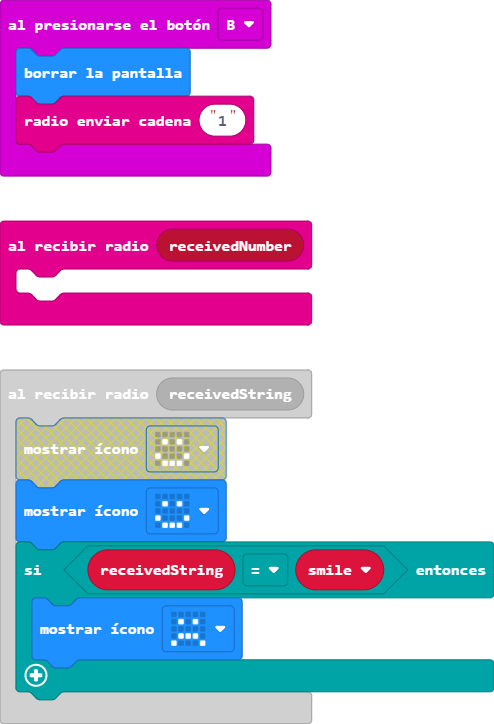
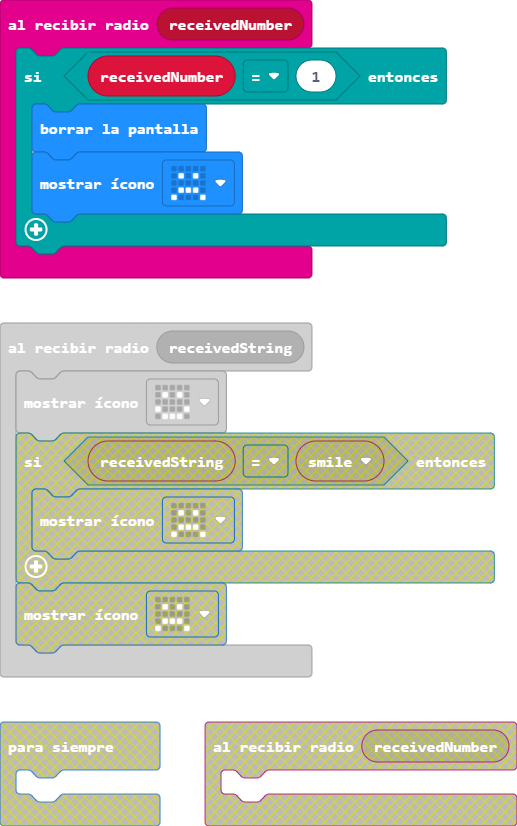
Actualizar main.blocks, main.ts

diff --git a/main.ts b/main.ts
@@ -1,25 +1,21 @@
 radio.onReceivedNumber(function (receivedNumber) {
-	
+    if (receivedNumber == 1) {
+        basic.clearScreen()
+        basic.showIcon(IconNames.Sad)
+    }
 })
 input.onButtonPressed(Button.A, function () {
     basic.clearScreen()
     radio.sendString("smile")
 })
 radio.onReceivedString(function (receivedString) {
-    let smile = ""
     basic.showIcon(IconNames.Happy)
-    if (receivedString == smile) {
-        basic.showIcon(IconNames.Sad)
-    }
 })
 input.onButtonPressed(Button.B, function () {
     basic.clearScreen()
     radio.sendString("1")
 })
 radio.setGroup(69)
-basic.forever(function () {
-	
-})
 basic.forever(function () {
 	
 })
